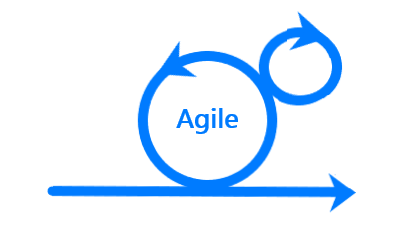
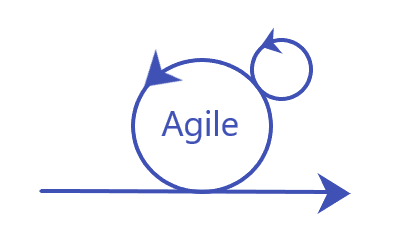
update images

Changed region(s): [[0.09, 0.056, 0.9, 0.868]]

diff --git a/css/style.css b/css/style.css
@@ -193,7 +193,7 @@ p {
 }
 
 .navbar-nav li a:hover {
-    color: #48c3eb !important;
+    color: #3f51b5 !important;
 }
 
 .card {
@@ -237,7 +237,7 @@ p {
 }
 
 .link-primary:hover {
-    color: #48c3eb !important;
+    color: #3f51b5 !important;
 }
 
 .navbar-brand {
